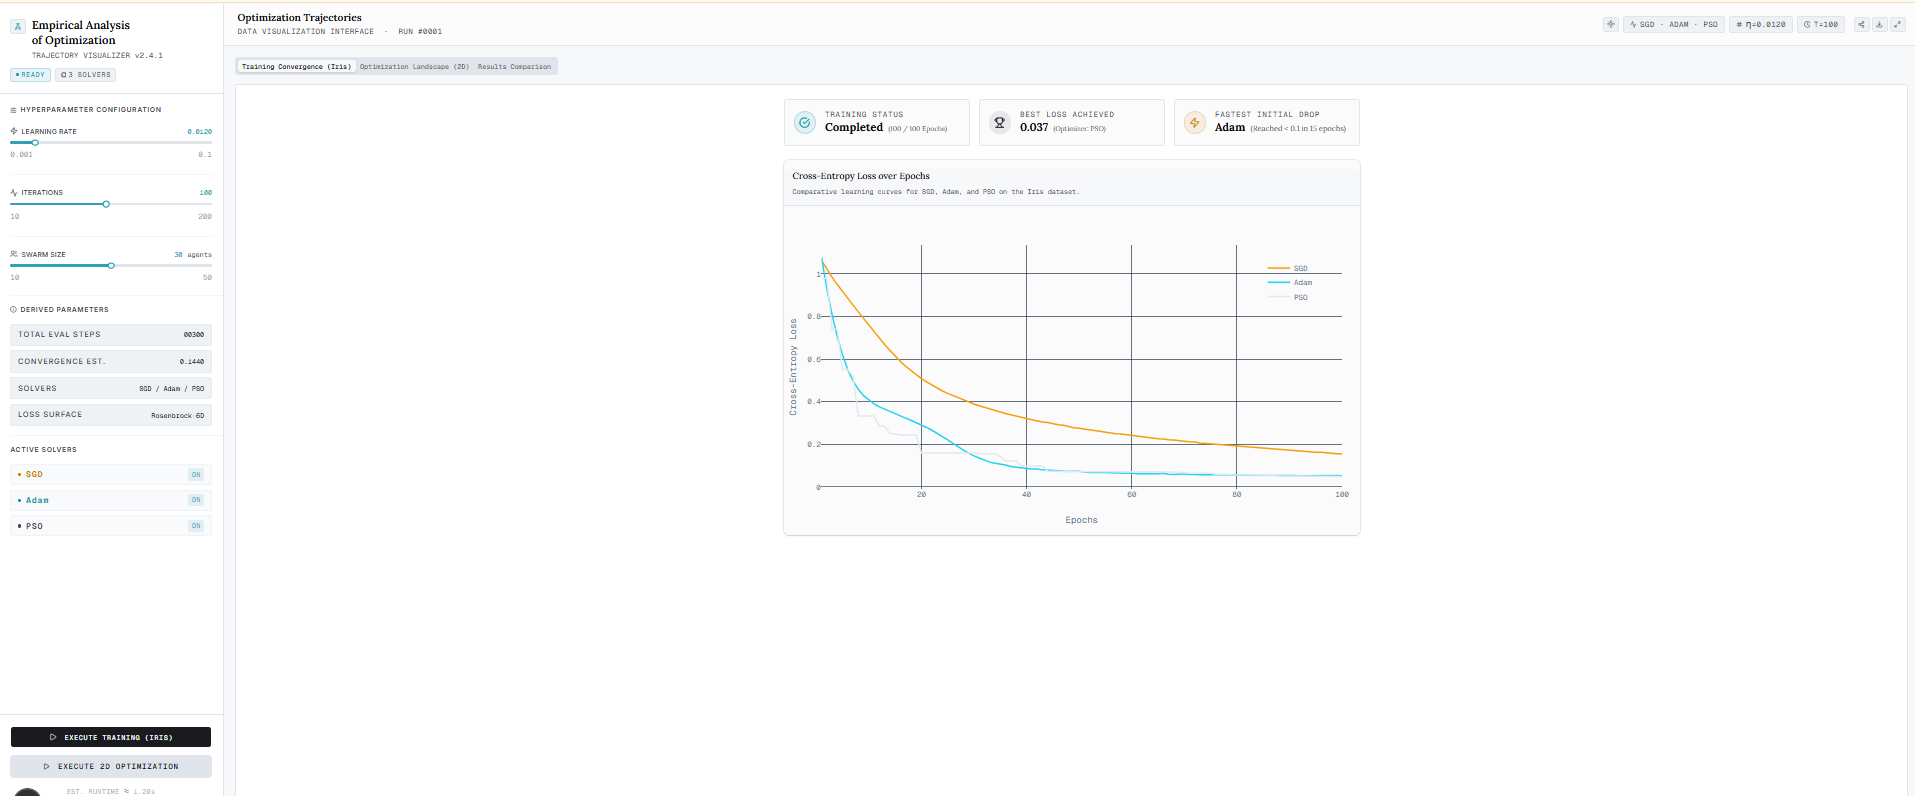
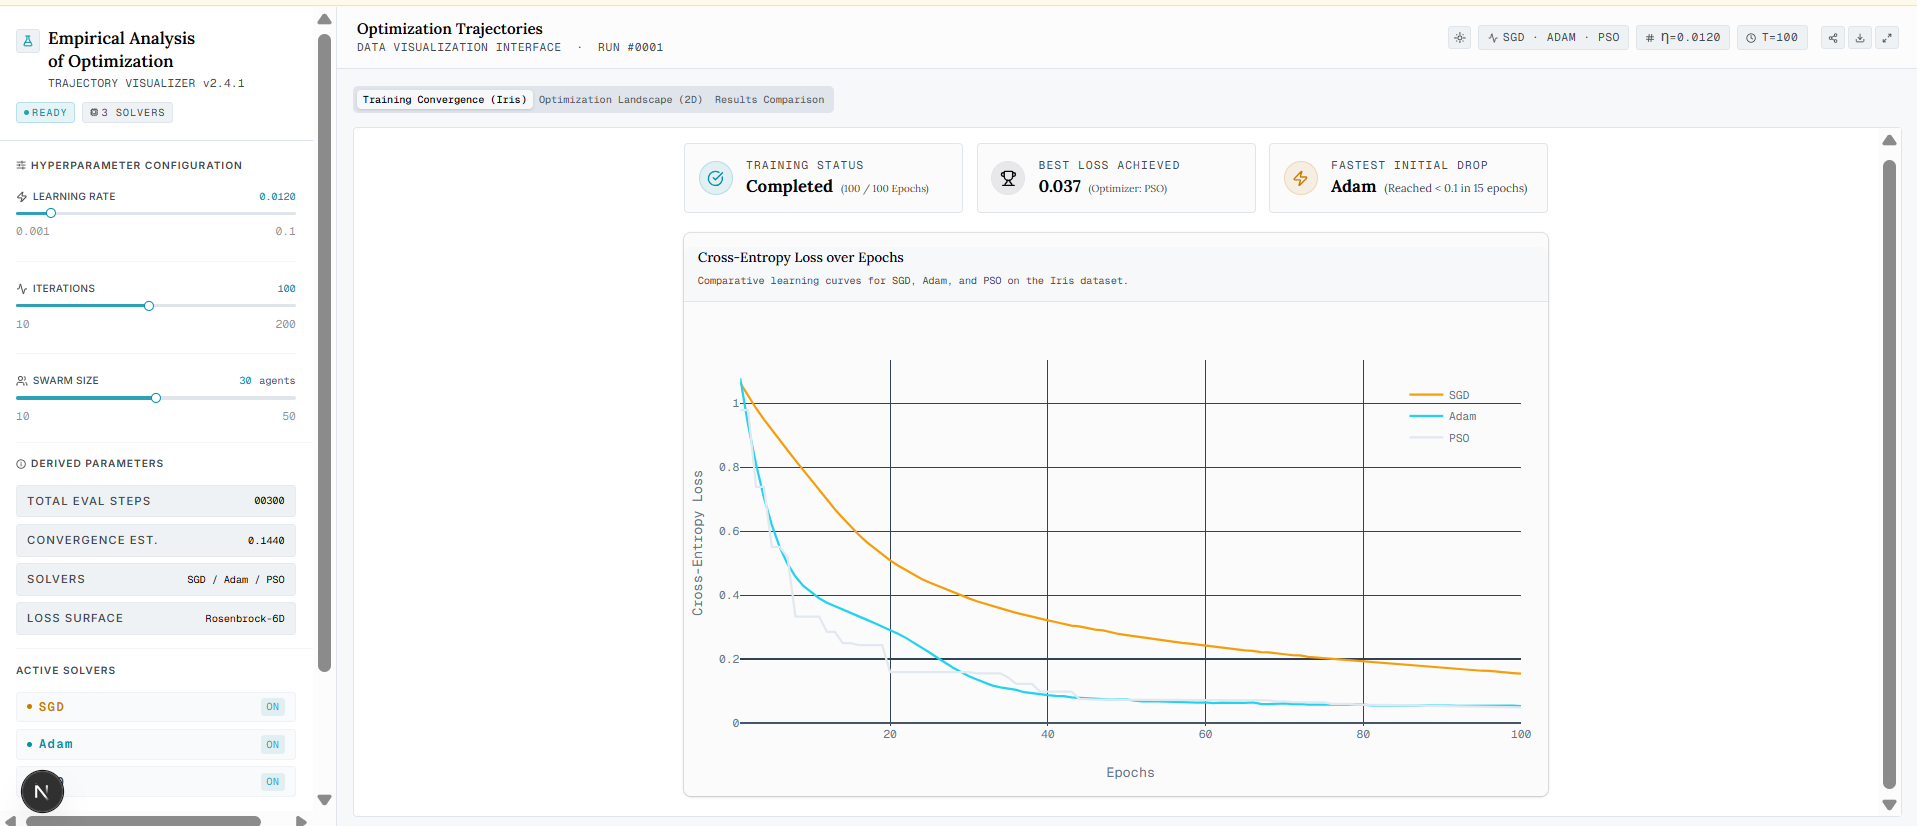
all

diff --git a/rapport/rapport.tex b/rapport/rapport.tex
@@ -103,8 +103,6 @@
         \end{flushright}
     \end{minipage}
 
-    \vfill
-    {\large \today}
 \end{titlepage}
 
 % ==========================================